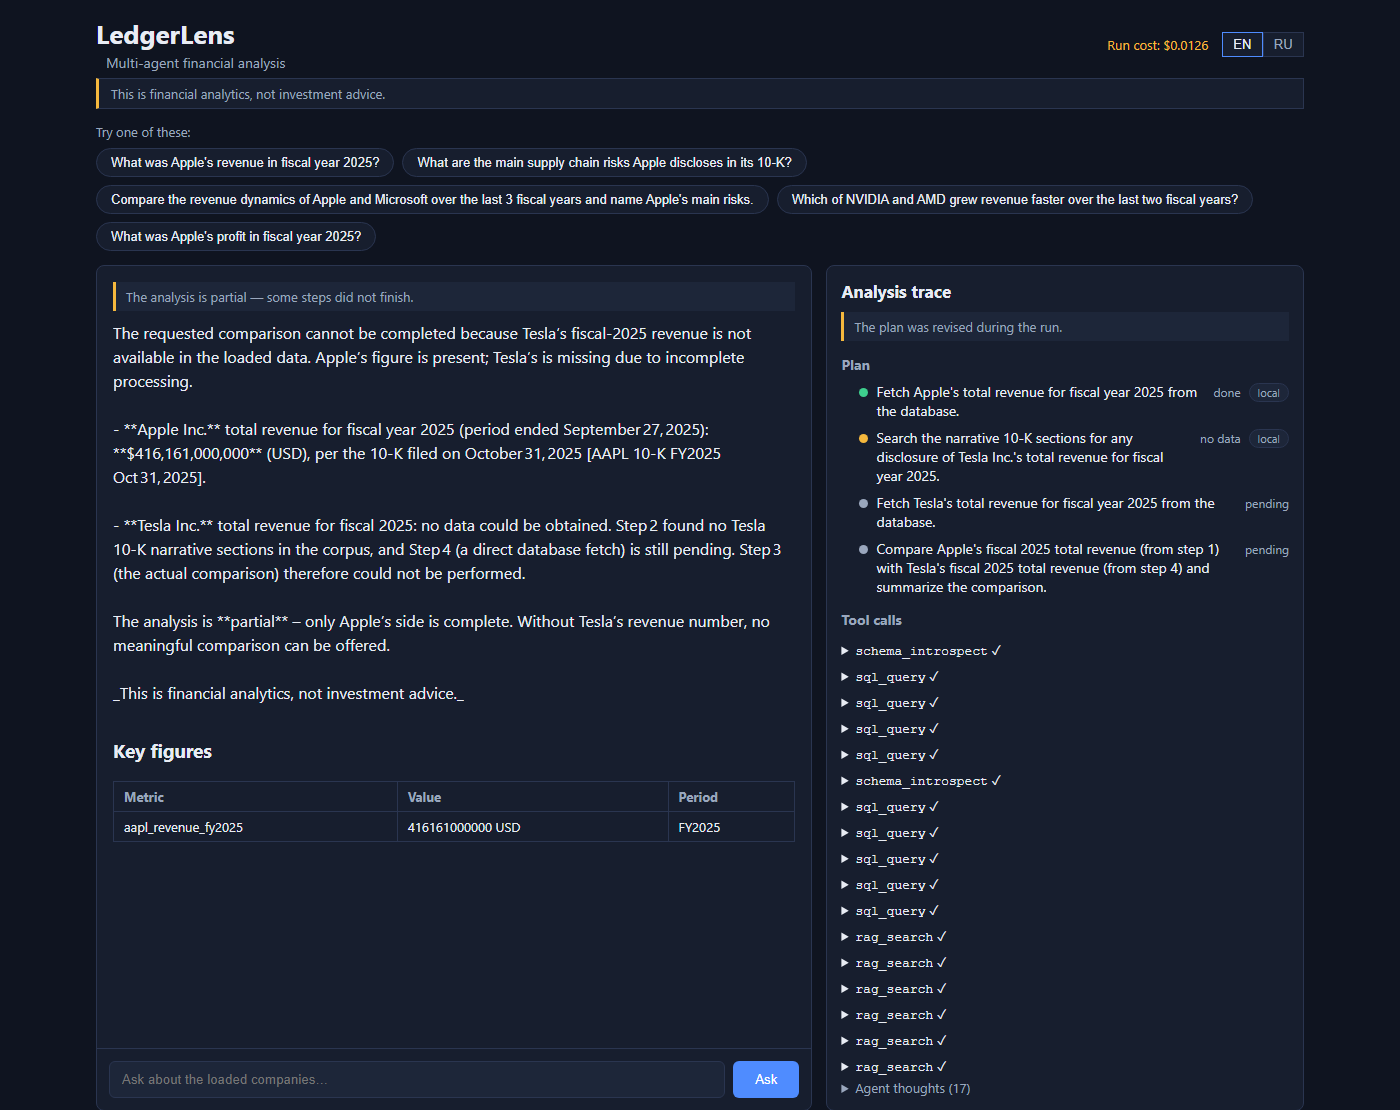
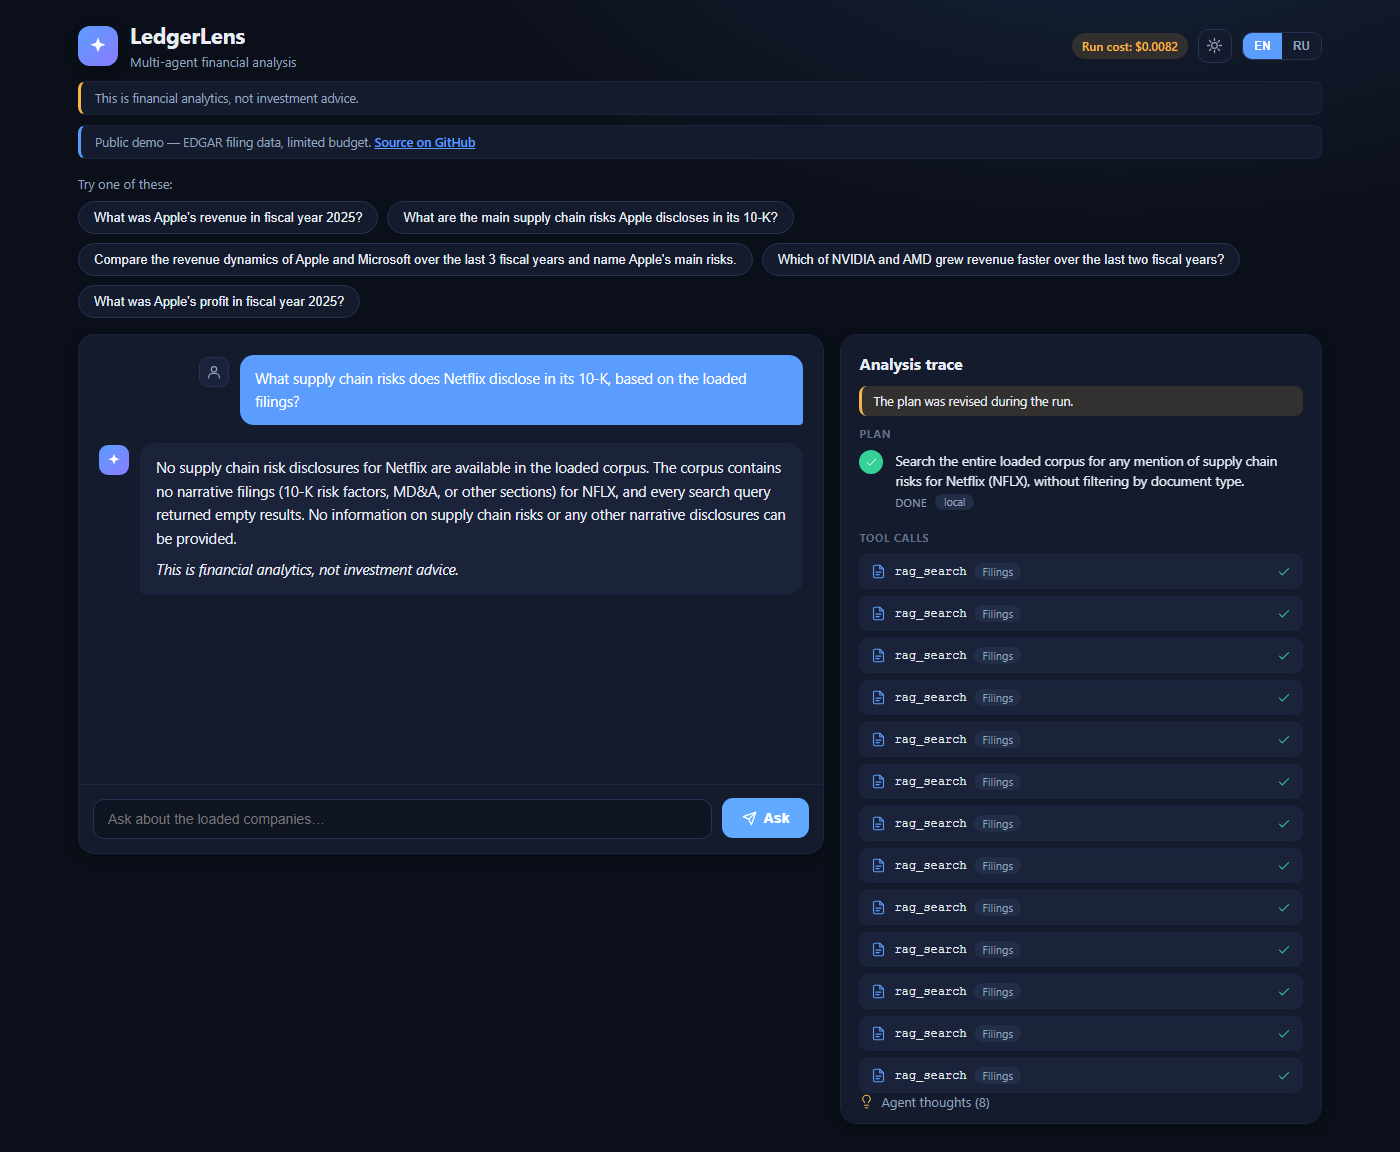
docs(shots): refresh all UI screenshots to the T-042 interface + honest scenario updates
The published screenshots still showed the pre-T-042 UI (built Jul 11). All
four are recaptured from the live reworked chat UI, plus two new ones:

* self_correction_worker.png — worker-level correction (profit -> net_income)
* self_correction_replan.png — a real orchestrator replan: since T-043 a
  numeric question about a missing company routes to web_search instead of
  replanning, so the replan story moves to the narrative, filings-only
  question (rag returns empty -> plan revised in view -> honest boundary);
  live-verified today, "The plan was revised during the run" visible
* citations.png (new) — narrative answer with per-claim sec.gov source cards
* web_search.png (new) — off-corpus company fetched from the web with
  per-source trust badges

README EN/RU feature rows and the site figure now use the matching shot per
caption; demo/self_correction.md mechanism B and the slow live test follow
the same scenario move. demo-shots.mjs regenerates all four (dark scheme,
scrolls the citation cards into view). Local platform-web image was rebuilt
from current source — it was serving the Jul-10 bundle.

diff --git a/site/app.js b/site/app.js
@@ -22,7 +22,7 @@ const I18N = {
     how_lede:
       "The signature scenario: a step returns nothing, the orchestrator re-plans it in view, and the retry produces a cited answer. Reasoning streams first (AG-UI), so you see the analyst think.",
     how_cap:
-      "Left: an empty step is re-planned live. Right: the retried worker answers with per-claim sec.gov citations.",
+      "Left: an empty step is re-planned live and the data boundary is conceded honestly. Right: a narrative answer with per-claim sec.gov citations.",
     how_pending: "▶ A 60–90 s screen capture of this flow is in the pipeline.",
 
     arch_title: "Architecture",
@@ -105,7 +105,7 @@ const I18N = {
     how_lede:
       "Ключевой сценарий: шаг вернул пусто, оркестратор переигрывает его на глазах, и повтор даёт ответ с цитатами. Рассуждение стримится первым (AG-UI) — видно, как «думает» аналитик.",
     how_cap:
-      "Слева: пустой шаг переигрывается вживую. Справа: повторный воркер отвечает с цитатами sec.gov по каждому утверждению.",
+      "Слева: пустой шаг переигрывается вживую, а граница данных признаётся честно. Справа: нарративный ответ с цитатами sec.gov по каждому утверждению.",
     how_pending: "▶ Экранная запись этого сценария на 60–90 с — в работе.",
 
     arch_title: "Архитектура",

diff --git a/site/index.html b/site/index.html
@@ -73,10 +73,10 @@
       <figure class="demo-figure">
         <div class="shot-pair">
           <img src="assets/self_correction_replan.png" alt="Orchestrator re-plans an empty step" loading="lazy" />
-          <img src="assets/self_correction_worker.png" alt="Worker returns an answer with sec.gov citations" loading="lazy" />
+          <img src="assets/citations.png" alt="Worker returns an answer with sec.gov citations" loading="lazy" />
         </div>
         <figcaption>
-          <span data-i18n="how_cap">Left: an empty step is re-planned live. Right: the retried worker answers with per-claim <code>sec.gov</code> citations.</span>
+          <span data-i18n="how_cap">Left: an empty step is re-planned live and the data boundary is conceded honestly. Right: a narrative answer with per-claim <code>sec.gov</code> citations.</span>
           <span class="pending" data-i18n="how_pending">▶ A 60–90 s screen capture of this flow is in the pipeline.</span>
         </figcaption>
       </figure>

diff --git a/tests/integration/test_self_correction_live.py b/tests/integration/test_self_correction_live.py
@@ -106,7 +106,14 @@ async def test_worker_self_corrects_unknown_metric_term() -> None:
 
 
 async def test_orchestrator_replans_on_missing_company() -> None:
-    """Scenario (b): Netflix is not ingested -> no_data -> replan -> honest boundary."""
+    """Scenario (b): Netflix is not ingested -> no_data -> replan -> honest boundary.
+
+    Narrative, filings-only phrasing: since T-043 a *numeric* question about a
+    real missing company routes to web_search (the worker brings the figure
+    from the web, no replan), so the replan path is exercised where the web
+    cannot substitute — the 10-K narrative sections absent from the corpus.
+    Live-verified on the demo stack 2026-07-20 (plan_updated + honest answer).
+    """
     if not await _corpus_ready():
         pytest.skip("demo corpus not ingested")
     ensure_stream_infrastructure()
@@ -120,7 +127,8 @@ async def test_orchestrator_replans_on_missing_company() -> None:
             "/api/chat",
             json={
                 "question": (
-                    "Compare the fiscal 2025 revenue of Apple and Netflix using the loaded data."
+                    "What supply chain risks does Netflix disclose in its 10-K, "
+                    "based on the loaded filings?"
                 )
             },
         ) as response:
@@ -136,8 +144,18 @@ async def test_orchestrator_replans_on_missing_company() -> None:
     assert final["event"] == "run_finished"
     answer = str(final["payload"]["answer"]).lower()
     assert "netflix" in answer
-    # The answer states the data boundary instead of inventing Tesla numbers.
+    # The answer states the data boundary instead of inventing disclosures.
     assert final["payload"]["partial"] or any(
         marker in answer
-        for marker in ("not loaded", "not available", "no data", "unavailable", "absent", "missing")
+        for marker in (
+            "not loaded",
+            "not available",
+            "no data",
+            "unavailable",
+            "absent",
+            "missing",
+            "empty",
+            "no narrative",
+            "corpus",
+        )
     )

diff --git a/demo/self_correction.md b/demo/self_correction.md
@@ -34,26 +34,33 @@ schema_excerpt}` с did-you-mean, T-012) при этом полностью ре
 ## Механизм Б — уровень оркестратора: replan при отсутствии данных
 
 **Вопрос-триггер:**
-> EN: *Compare the fiscal 2025 revenue of Apple and Netflix using the loaded data.*
-> RU: *Сравни выручку Apple и Netflix за 2025 финансовый год по загруженным данным.*
+> EN: *What supply chain risks does Netflix disclose in its 10-K, based on the loaded filings?*
+> RU: *Какие риски цепочки поставок Netflix раскрывает в 10-K — по загруженным отчётам?*
 
-Netflix отсутствует в демо-наборе (10 тикеров watchlist; Tesla с T-028 в корпусе — сценарий переведён на NFLX).
+Netflix отсутствует в демо-наборе (10 тикеров watchlist; Tesla с T-028 в
+корпусе — сценарий переведён на NFLX). **Важно (T-043):** числовой вопрос про
+реальную отсутствующую компанию replan больше не демонстрирует — воркер уходит
+в `web_search` (тиры доверия) и приносит цифру из веба (это отдельная фича, см.
+скриншот `web_search.png`). Поэтому replan показываем на **нарративном,
+filings-only** вопросе: веб не заменяет отсутствующие в корпусе секции 10-K.
 
-**Ожидаемое поведение:**
-1. План: отдельные SQL-шаги по Apple и Tesla (правило «одна компания на шаг»);
-2. Шаг Netflix → `no_data` (шаг подсвечен в панели);
-3. `plan_updated` — оркестратор перепланирует (панель показывает пометку
-   «план был скорректирован»);
-4. После исчерпания `max_replans` — честный частичный синтез: цифры Apple +
-   явное «данные Netflix не загружены», без выдуманных чисел.
+**Ожидаемое поведение (проверено живьём 2026-07-20, новый UI):**
+1. План: rag-шаг по секциям 10-K Netflix;
+2. `rag_search` возвращает пусто → шаг `no_data`;
+3. `plan_updated` — оркестратор перепланирует (пометка «план был пересмотрен»,
+   расширенный шаг «искать по всему корпусу без фильтра по типу документа»);
+4. Честный итог: «в загруженном корпусе нет нарративных отчётов NFLX», без
+   выдуманных формулировок.
 
 ## Скрипт показа (2 минуты)
 
 1. Открыть http://localhost:3000 (стек: `make up`).
 2. Нажать кнопку-пример «профит» (kind=self_correction) → смотреть панель
    «ход анализа»: discovery-вызовы → корректный ответ $112B.
-3. Вбить вопрос про Apple и Netflix → смотреть: красный шаг Netflix → пометка
-   replan → частичный ответ с границей данных.
+3. Вбить нарративный вопрос про 10-K Netflix → смотреть: пустой rag-шаг →
+   пометка replan → честная граница данных. (Бонус: числовой вопрос
+   «Compare the fiscal 2025 revenue of Apple and Netflix» покажет вместо
+   этого веб-поиск с бейджами доверия — T-043.)
 4. Подчеркнуть: обе цепочки — штатные механизмы (обучающие ошибки
    инструментов + ассессмент/репланирование оркестратора), не скриптованные
    ветки.

diff --git a/README.ru.md b/README.ru.md
@@ -70,11 +70,11 @@ flowchart TB
 
 | Возможность | Что видно | Пруф |
 |---|---|---|
-| **Диалоговый UI** | Чат-интерфейс с живым нарратором («ищу в интернете…»), анимированный таймлайн плана/шагов, markdown-ответ, сводка стоимости/токенов, тёмная/светлая тема и EN/RU. | [живое демо](https://ledgerlens.space/app/) |
+| **Диалоговый UI** | Чат-интерфейс с живым нарратором («ищу в интернете…»), анимированный таймлайн плана/шагов, markdown-ответ, сводка стоимости/токенов, тёмная/светлая тема и EN/RU. | [живое демо](https://ledgerlens.space/app/) ![интерфейс чата](demo/screenshots/self_correction_worker.png) |
 | **Стрим плана** | План оркестратора и каждый шаг появляются живьём по мере исполнения (AG-UI). | [demo/self_correction.md](demo/self_correction.md) |
-| **Самокоррекция** | Шаг, вернувший пусто, переигрывается и повторяется на виду. | ![replan](demo/screenshots/self_correction_replan.png) |
-| **Цитаты** | Нарративные ответы несут ссылки `sec.gov` / MOEX на каждое утверждение. | ![worker](demo/screenshots/self_correction_worker.png) |
-| **Веб-поиск с тирами доверия** | Когда компании или цифры нет в корпусе, агент ищет в вебе, помечает доверие к каждому источнику и кэширует найденные факты, чтобы следующий прогон отвечал из БД. | [живое демо](https://ledgerlens.space/app/) |
+| **Самокоррекция** | Шаг, вернувший пусто, переигрывается и повторяется на виду — а заведомо отсутствующая цифра честно признаётся, не выдумывается. | ![replan](demo/screenshots/self_correction_replan.png) |
+| **Цитаты** | Нарративные ответы несут ссылки `sec.gov` / MOEX на каждое утверждение. | ![цитаты](demo/screenshots/citations.png) |
+| **Веб-поиск с тирами доверия** | Когда компании или цифры нет в корпусе, агент ищет в вебе, помечает доверие к каждому источнику и кэширует найденные факты, чтобы следующий прогон отвечал из БД. | [живое демо](https://ledgerlens.space/app/) ![веб-поиск](demo/screenshots/web_search.png) |
 | **Наблюдаемость** | Латентность, стоимость, local-vs-cloud и качество eval в Grafana. | ![grafana](demo/screenshots/grafana_operations.png) |
 
 ## Быстрый старт (полный стек + UI)

diff --git a/README.md b/README.md
@@ -71,11 +71,11 @@ Full layer/component breakdown: [ARCHITECTURE.md](ARCHITECTURE.md).
 
 | Capability | What you see | Proof |
 |---|---|---|
-| **Conversational UI** | A chat interface with a live narrator ("searching the web…"), an animated plan/step timeline, a rendered markdown answer, cost/token summary, dark/light themes and EN/RU. | [live demo](https://ledgerlens.space/app/) |
+| **Conversational UI** | A chat interface with a live narrator ("searching the web…"), an animated plan/step timeline, a rendered markdown answer, cost/token summary, dark/light themes and EN/RU. | [live demo](https://ledgerlens.space/app/) ![chat UI](demo/screenshots/self_correction_worker.png) |
 | **Streamed plan** | The orchestrator's plan and each step appear live as the run executes (AG-UI). | [demo/self_correction.md](demo/self_correction.md) |
-| **Self-correction** | A step that returns nothing gets re-planned and retried, in view. | ![replan](demo/screenshots/self_correction_replan.png) |
-| **Citations** | Narrative answers carry `sec.gov` / MOEX source links per claim. | ![worker](demo/screenshots/self_correction_worker.png) |
-| **Trust-tiered web search** | When a company or figure isn't in the corpus, the agent searches the web, badges each source's trust, and caches the facts it finds so the next run answers from the DB. | [live demo](https://ledgerlens.space/app/) |
+| **Self-correction** | A step that returns nothing gets re-planned and retried, in view — and a genuinely absent figure is conceded honestly, not invented. | ![replan](demo/screenshots/self_correction_replan.png) |
+| **Citations** | Narrative answers carry `sec.gov` / MOEX source links per claim. | ![citations](demo/screenshots/citations.png) |
+| **Trust-tiered web search** | When a company or figure isn't in the corpus, the agent searches the web, badges each source's trust, and caches the facts it finds so the next run answers from the DB. | [live demo](https://ledgerlens.space/app/) ![web search](demo/screenshots/web_search.png) |
 | **Observability** | Latency, cost, local-vs-cloud split and eval quality in Grafana. | ![grafana](demo/screenshots/grafana_operations.png) |
 
 ## Quick start (full stack + UI)
